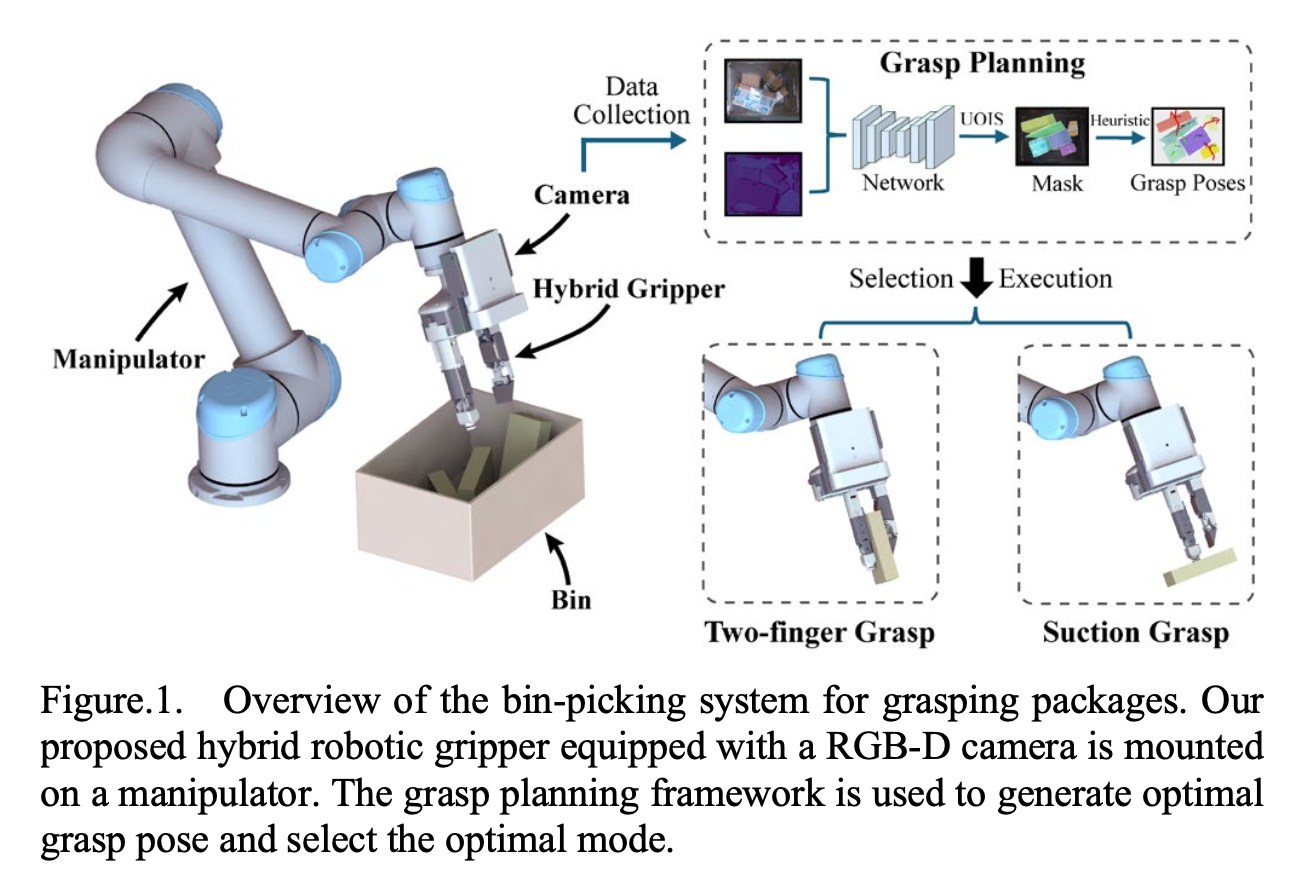
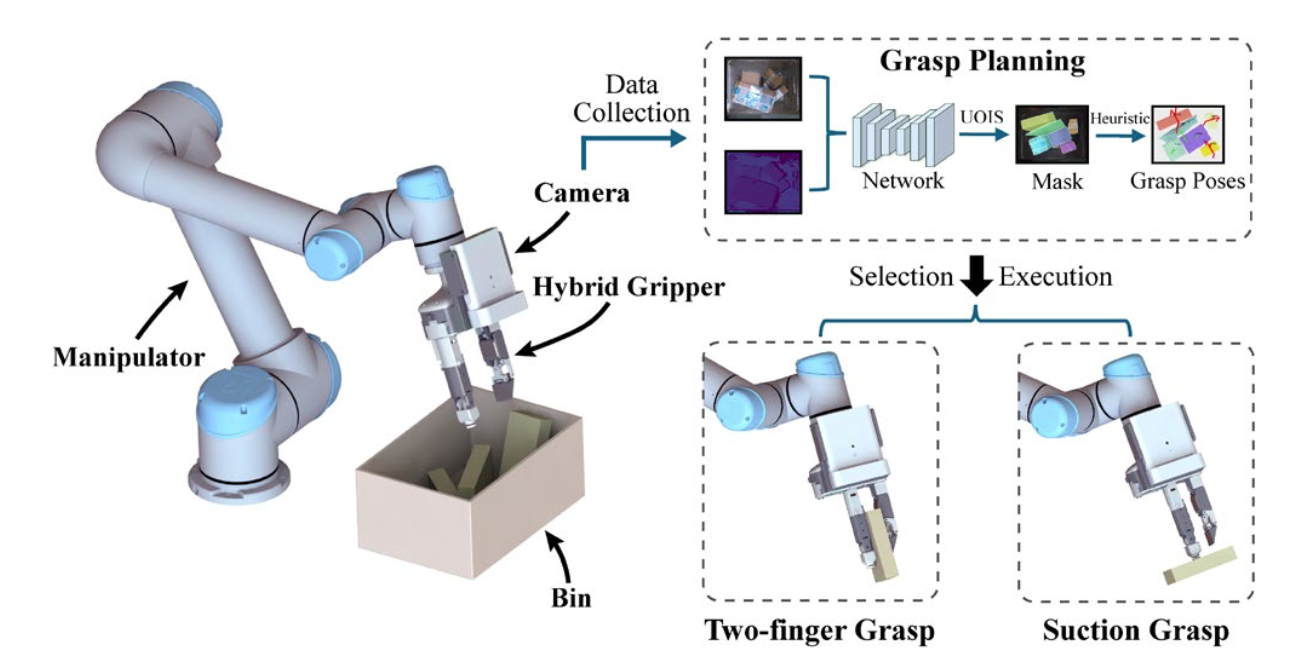
Update Publication

diff --git a/_pages/about.md b/_pages/about.md
@@ -100,6 +100,8 @@ My research focuses on the intersection of **robotic perception, control, and in
 
 Zhian Su, **Yicheng Ma**, Haotian Guo, and Huixu Dong
 
+<img src="../images/hybrid_figure1.png" alt="hybrid_figure1" width="48%" height="48%" />
+
 **Abstract—** An autonomous bin-picking system for grasping
 various cluttered packages can significantly benefit logistics by
 reducing manual labor and streamlining processing. The
@@ -127,8 +129,8 @@ compared to mono-functional grippers such as suction (53.9%)
 and Hand-E (39.3%). Real-world experiments further validated
 its practicality, highlighting its potential in logistics scenarios.
 
-<img src="../images/hybrid_figure1.png" alt="hybrid_figure1" width="26%" height="26%" />
-<img src="../images/24_118.png" alt="24_118" width="68%" height="68%" />
+
+<img src="../images/24_118.png" alt="24_118" width="100%" height="100%" />
 <!-- <img src="../images/submisionInfo.png" alt="submissioninfo" width="45%" height="45%" /> -->
 
 > This manuscript is being prepared for submission to *IEEE Robotics and Automation Letters(RA-L)* .
